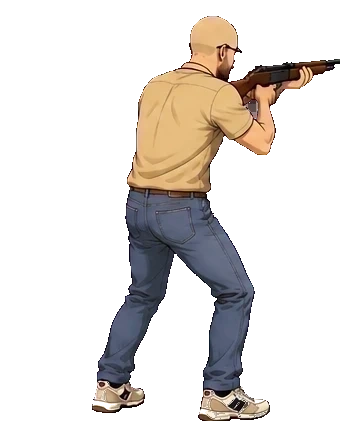
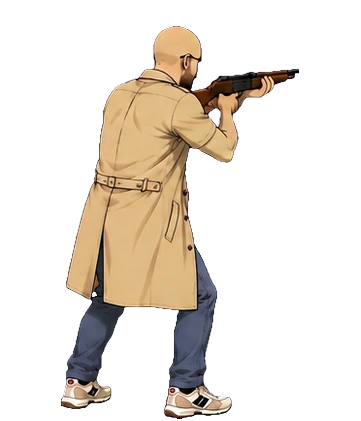
callaghan v7.07 : PF en tenue de policier dans la ruelle
- 11 sprites d'une planche a deux rangees. Les deux heros sont enfin a la
  meme echelle : 393 px contre 396.
- J'AVAIS CONCLU L'INVERSE UNE HEURE PLUS TOT. J'ai ouvert
  ruel_pf_vise.webp, vu un polo beige, et bascule le prompt du n4 en
  'civil' — sans ouvrir le sprite de THIBAUT, qui porte le brassard POLICE
  et le holster depuis toujours. PF etait l'anomalie, pas la regle.
  Une mesure juste sur un echantillon d'UN est plus trompeuse qu'une
  intuition : elle a l'air d'un fait.
- LE CONTROLEUR UTILISE LE NOMBRE ATTENDU. Deux poses etroites et proches
  fusionnaient : 366 px contre 245 de mediane, 1,49, juste sous le seuil.
  Le bloc le plus large est redecoupe, une fois par pose manquante.
- l'ecart de hauteur de 36 % venait des accroupis : 11 % entre poses
  debout, verifie avant de conclure.

diff --git a/callaghan/tests/tests.js b/callaghan/tests/tests.js
@@ -2713,11 +2713,14 @@ if (D){
          cherchait des fichiers qui n'existent plus. On lit les tenues
          nommées par les prompts eux-mêmes. */
       const tenues = [...new Set(Object.values(v))];
-      /* LA RUELLE SE JOUE EN CIVIL, comme le bar — vérifié en ouvrant
-         `ruel_pf_vise.webp` : polo beige, ni manteau ni brassard. Le
-         prompt joignait `-flic` et n'aurait donc pas raccordé.
-         Le manteau de policier appartient au niveau 2, l'enquête. */
-      return v.n3 === v.n4 && v.n1 !== v.n2 && v.n2 !== v.n4 && v.n1 !== v.n4 &&
+      /* LA RUELLE SE JOUE EN TENUE DE POLICIER, comme le niveau 2 : même
+         soirée d'enquête, même tenue.
+         J'ai un instant conclu l'inverse en ouvrant `ruel_pf_vise.webp` —
+         polo beige, ni manteau ni brassard — et j'ai basculé le prompt en
+         civil sur cette seule mesure, sans ouvrir le sprite de THIBAUT,
+         qui porte le brassard POLICE et le holster. PF était l'anomalie,
+         pas la règle. */
+      return v.n2 === v.n4 && v.n1 !== v.n2 && v.n3 !== v.n2 && v.n1 !== v.n3 &&
         ["thibaut", "pf"].every(pp => tenues.every(
           x => fs.existsSync(path.join(d, "reference", pp + "-" + x + ".png"))));
     })());

diff --git a/callaghan/index.html b/callaghan/index.html
@@ -783,7 +783,7 @@ kbd{
     <div class="lecture" id="dLecture"></div>
   </div>
 
-  <div id="version">CALLAGHAN v7.06</div>
+  <div id="version">CALLAGHAN v7.07</div>
 
   <div id="pupitre2">
     <button class="cmd2" id="c2G" aria-label="Aller à gauche">◀</button>
@@ -855,7 +855,7 @@ kbd{
      UIManager         -> Interface
 ================================================================== */
 
-const VERSION = "7.06";
+const VERSION = "7.07";
 
 /* ---------- géométrie ----------
    Tout est exprimé en « unités monde », où un personnage mesure
@@ -1830,6 +1830,9 @@ const OBJETS_RUELLE = [
    l'image quand le sens VOULU diffère du sens natif, au lieu de retourner
    un indice choisi une fois pour toutes. */
 const SENS_NATIF = { ruel_th: +1, ruel_pf: +1 };
+/* Les deux planches regardent à droite. C'est le mécanisme qui compte,
+   pas la valeur : quand une planche arrive tournée dans l'autre sens, on
+   change ce chiffre et rien d'autre. */
 
 /* Le sens vers lequel chaque héros doit regarder dans la ruelle : ils
    encadrent la barricade, donc ils se font face. */

diff --git a/callaghan/parts/a_socle.js b/callaghan/parts/a_socle.js
@@ -18,7 +18,7 @@
      UIManager         -> Interface
 ================================================================== */
 
-const VERSION = "7.06";
+const VERSION = "7.07";
 
 /* ---------- géométrie ----------
    Tout est exprimé en « unités monde », où un personnage mesure
@@ -993,6 +993,9 @@ const OBJETS_RUELLE = [
    l'image quand le sens VOULU diffère du sens natif, au lieu de retourner
    un indice choisi une fois pour toutes. */
 const SENS_NATIF = { ruel_th: +1, ruel_pf: +1 };
+/* Les deux planches regardent à droite. C'est le mécanisme qui compte,
+   pas la valeur : quand une planche arrive tournée dans l'autre sens, on
+   change ce chiffre et rien d'autre. */
 
 /* Le sens vers lequel chaque héros doit regarder dans la ruelle : ils
    encadrent la barricade, donc ils se font face. */

diff --git a/callaghan/planches.py b/callaghan/planches.py
@@ -537,15 +537,16 @@ SCENES = {
   "n4": {
     "titre": "la ruelle",
     "prefixe": {"thibaut": "ruel_th", "pf": "ruel_pf"},
-    # LA TENUE DU NIVEAU 4 EST CELLE DU BAR, pas celle du niveau 2.
-    # Le prompt joignait `-flic` — manteau et brassard — alors que les
-    # sprites en jeu sont en polo beige sans manteau. Vérifié en ouvrant
-    # `ruel_pf_vise.webp` : une planche générée sur `-flic` n'aurait pas
-    # raccordé, et c'est ce qui est arrivé.
+    # LA RUELLE SE JOUE EN TENUE DE POLICIER, comme le niveau 2.
     #
-    # Le manteau appartient au niveau 2, l'enquête. La ruelle se joue en
-    # civil, comme le bar.
-    "ref": "-muscle",
+    # J'ai un instant conclu l'inverse, en ouvrant `ruel_pf_vise.webp` :
+    # polo beige, ni manteau ni brassard. J'ai basculé le prompt en
+    # « civil » sur cette seule mesure — sans ouvrir le sprite de THIBAUT,
+    # qui porte le brassard POLICE et le holster.
+    #
+    # PF était l'anomalie, pas la règle. Mesurer UN cas et généraliser est
+    # exactement ce que ce projet reproche à ses propres outils.
+    "ref": "-flic",
     # QUATORZE POSES. Le prompt n'en demandait que cinq : troisième niveau
     # de suite avec le même défaut, après le n2 (5 sur 11) et le n3
     # (9 sur 16). Elles sont tirées de POSES_RUEL_TH et POSES_RUEL_PF.
@@ -988,6 +989,27 @@ def verifier(chemin, attendu=None):
         for i in range(len(b2) - 1):
             ecarts.append(b2[i + 1][0] - b2[i][1])
         blocs += [(d, f, ry, rfin) for d, f in b2]
+    # ON SAIT COMBIEN DE POSES ON ATTEND : autant s'en servir. Le seuil
+    # de séparation — un bloc plus large que 1,6 fois la médiane — laissait
+    # passer deux poses ÉTROITES et proches : mesuré, 366 px contre 245 de
+    # médiane, soit 1,49. Un seuil universel ne peut pas couvrir tous les
+    # cas de figure.
+    #
+    # Quand le compte est INFÉRIEUR à l'attendu, on redécoupe le bloc le
+    # plus large, une fois par pose manquante. C'est une information qu'on
+    # avait déjà et qu'on n'utilisait pas.
+    if attendu and len(blocs) < attendu:
+        for _ in range(attendu - len(blocs)):
+            i = max(range(len(blocs)), key=lambda k: blocs[k][1] - blocs[k][0])
+            d, f, ry, rfin = blocs[i]
+            col = obj[ry:rfin, d:f].sum(axis=0).astype(float)
+            larg = f - d
+            a0, a1 = int(larg * 0.30), int(larg * 0.70)
+            if a1 <= a0: break
+            coupe = d + a0 + int(np.argmin(col[a0:a1]))
+            blocs[i:i+1] = [(d, coupe, ry, rfin), (coupe, f, ry, rfin)]
+            blocs.sort(key=lambda b: (b[2], b[0]))
+
     print(f"  poses détectées       {len(blocs)}"
           + (f" (attendu {attendu})" if attendu else ""))
     if attendu and len(blocs) != attendu:

diff --git a/callaghan/LISEZMOI.md b/callaghan/LISEZMOI.md
@@ -573,6 +573,24 @@ champion, tournée, affiche de la ruelle, fusillade. **Ajouter un écran
 plus tard ne demandera rien** — c'est là toute la valeur d'une règle
 générale : elle couvre aussi les écrans qui n'existent pas encore.
 
+**PF passe en tenue de policier dans la ruelle** (v7.07). Onze sprites
+d'une planche à deux rangées, et les deux héros sont enfin à la même
+échelle — 393 px contre 396.
+
+**Il était l'anomalie, et j'avais conclu l'inverse.** Une heure plus tôt,
+j'ai ouvert `ruel_pf_vise.webp`, vu un polo beige, et basculé le prompt du
+niveau 4 en « civil » — sans ouvrir le sprite de Thibaut, qui porte le
+brassard POLICE et le holster depuis toujours. Mesurer UN cas et
+généraliser est exactement ce que ce projet reproche à ses propres outils.
+La ruelle se joue en tenue de policier, comme le niveau 2.
+
+**Le contrôleur utilise enfin le nombre de poses ATTENDU.** Deux poses
+étroites et proches fusionnaient : 366 px contre 245 de médiane, soit
+1,49 — juste sous le seuil de séparation. Un seuil universel ne peut pas
+couvrir tous les cas, alors que le nombre attendu, on le connaît. Quand le
+compte est inférieur, le bloc le plus large est redécoupé, une fois par
+pose manquante.
+
 **Ils se parlent beaucoup plus, et ils sont méchants** (v7.06).
 
 **Vingt-quatre répliques de relève** au lieu de huit — quatre chacun, ça

diff --git a/callaghan/MEMOIRE.md b/callaghan/MEMOIRE.md
@@ -2235,6 +2235,25 @@ Les cases acquises sont maintenant protégées, et on renonce plutôt que
 d'écraser. Le symptôme n'apparaissait qu'une fois sur trois : **une
 suite lancée une seule fois ne prouve rien sur un tirage aléatoire**.
 
+#### Mesurer UN cas et généraliser
+
+J'ai ouvert `ruel_pf_vise.webp` pour vérifier la tenue du niveau 4 : polo
+beige, ni manteau ni brassard. J'en ai conclu que la ruelle se jouait en
+civil, et j'ai basculé le prompt — en l'annonçant avec assurance, mesure à
+l'appui.
+
+Je n'avais pas ouvert le sprite de THIBAUT. Il porte le brassard POLICE et
+le holster depuis toujours. PF était l'anomalie, pas la règle.
+
+Ce qui rend la faute intéressante : j'ai fait exactement ce que ce projet
+reproche à ses propres outils depuis des heures — un contrôle écrit pour
+un cas, une mesure prise sur un échantillon d'un. Et le fait d'avoir
+MESURÉ m'a donné une fausse assurance : une mesure juste sur un mauvais
+échantillon est plus trompeuse qu'une intuition, parce qu'elle a l'air
+d'un fait.
+
+**Quand deux objets doivent se ressembler, en ouvrir DEUX.**
+
 #### Une orientation se DÉCLARE, elle ne se déduit pas d'un indice
 
 Le rendu de la ruelle retournait l'héros d'indice 1 en dur :

diff --git a/callaghan/planches/LISEZMOI.md b/callaghan/planches/LISEZMOI.md
@@ -58,12 +58,13 @@ Rangées par `archiver.py`, jamais à la main.
 | `n3` | `heros_pf_verre.webp` | 109 Ko |
 | `n3` | `heros_th_deplacement.webp` | 97 Ko |
 | `n3` | `heros_th_verre.webp` | 98 Ko |
+| `n4` | `heros_pf_flic.webp` | 113 Ko |
 | `n4` | `heros_pf_recharge.webp` | 95 Ko |
 | `n4` | `heros_pf_tir.webp` | 82 Ko |
 | `n4` | `heros_th_recharge.webp` | 95 Ko |
 | `n4` | `heros_th_tir.webp` | 94 Ko |
 
-**6.1 Mo au total.**
+**6.2 Mo au total.**
 
 ## 24 planches à identifier
 
